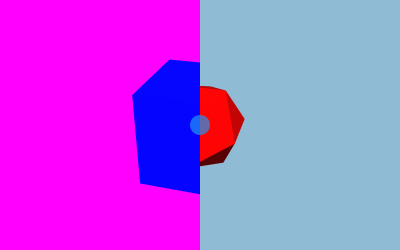
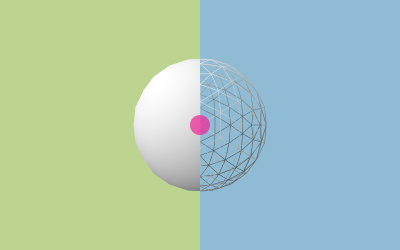
Examples: Improved webgl_multiple_scenes_comparison.

diff --git a/examples/webgl_multiple_scenes_comparison.html b/examples/webgl_multiple_scenes_comparison.html
@@ -6,9 +6,6 @@
 		<meta name="viewport" content="width=device-width, user-scalable=no, minimum-scale=1.0, maximum-scale=1.0">
 		<link type="text/css" rel="stylesheet" href="main.css">
 		<style>
-			#info {
-				background: rgba(0, 0, 0, 0.3);
-			}
 
 			.container {
 				position: absolute;
@@ -22,7 +19,7 @@
 
 				width: 40px;
 				height: 40px;
-				background-color: #2196F3;
+				background-color: #F32196;
 				opacity: 0.7;
 				border-radius: 50%;
 
@@ -60,13 +57,13 @@
 				container = document.querySelector( '.container' );
 
 				sceneL = new THREE.Scene();
-				sceneL.background = new THREE.Color( 0xffffff );
+				sceneL.background = new THREE.Color( 0xBCD48F );
 
 				sceneR = new THREE.Scene();
 				sceneR.background = new THREE.Color( 0x8FBCD4 );
 
-				camera = new THREE.PerspectiveCamera( 35, container.clientWidth / container.clientHeight, 0.1, 10 );
-				camera.position.set( 2, 4, 7 );
+				camera = new THREE.PerspectiveCamera( 35, container.clientWidth / container.clientHeight, 0.1, 100 );
+				camera.position.z = 6;
 
 				controls = new OrbitControls( camera, container );
 
@@ -92,13 +89,13 @@
 
 			function initMeshes() {
 
-				var geoB = new THREE.BoxBufferGeometry( 2, 2, 2 );
-				var matB = new THREE.MeshStandardMaterial( { color: 0x8FBCD4 } );
+				var geoB = new THREE.IcosahedronBufferGeometry( 1, 2 );
+				var matB = new THREE.MeshStandardMaterial();
 				var meshB = new THREE.Mesh( geoB, matB );
 				sceneL.add( meshB );
 
-				var geoA = new THREE.IcosahedronBufferGeometry( 1, 0 );
-				var matA = new THREE.MeshStandardMaterial( { color: 0xffffff } );
+				var geoA = new THREE.IcosahedronBufferGeometry( 1, 2 );
+				var matA = new THREE.MeshStandardMaterial( { wireframe: true } );
 				var meshA = new THREE.Mesh( geoA, matA );
 				sceneR.add( meshA );
 
@@ -106,15 +103,10 @@
 
 			function initLights() {
 
-				var light1 = new THREE.DirectionalLight();
-				light1.position.set( 20, 20, 20 );
-				sceneL.add( light1 );
-				sceneR.add( light1.clone() );
-
-				var light2 = new THREE.DirectionalLight();
-				light2.position.set( - 20, 20, 20 );
-				sceneL.add( light2 );
-				sceneR.add( light2.clone() );
+				var light = new THREE.HemisphereLight( 0xffffff, 0x444444, 1 );
+				light.position.set( - 2, 2, 2 );
+				sceneL.add( light.clone() );
+				sceneR.add( light.clone() );
 
 			}
 
